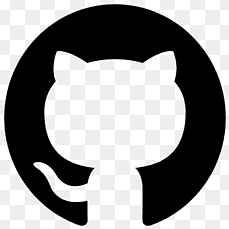
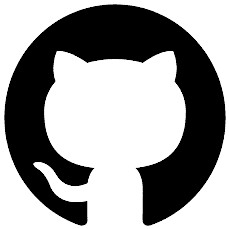
Added github pic at setup.

diff --git a/src/ts/setup/component.ts b/src/ts/setup/component.ts
@@ -1,5 +1,6 @@
 import { type ComponentContainer, type JsonValue } from 'golden-layout';
 import { ComponentBase } from '../golden-components/component-base';
+import image from '../../../img/github.png';
 
 const template = (function () {
   const template = document.createElement('template');
@@ -12,6 +13,13 @@ const template = (function () {
       height: 100%;
       background-color: grey !important;
     }
+
+    #github {
+      height: 25px;
+      width: 25px;
+      background-color: white;
+      border-radius: 50%;
+    }
     
     #footer {
       align-self: flex-end;
@@ -22,8 +30,10 @@ const template = (function () {
     <div id=info></div>
   </div>
   <div id=footer>
-    <a target=_blank href=https://github.com/rnascunha/console_web>GitHub</a>
     <small>Version: <b>${__COMMIT_HASH__}</b></small>
+    <a target=_blank href=https://github.com/rnascunha/console_web>
+      <img id=github src="${image as string}" alt=GitHub></img>
+    </a>
   </div>`;
   return template;
 })();
@@ -41,6 +51,8 @@ export class SetupComponent extends ComponentBase {
     this.rootHtmlElement.shadowRoot?.appendChild(
       template.content.cloneNode(true)
     );
+
+    console.log(image);
 
     this.title = 'Setup';
 

diff --git a/webpack.config.js b/webpack.config.js
@@ -64,7 +64,7 @@ module.exports = {
       },
       {
         // monaco-editor
-        test: /\.ttf$/,
+        test: /\.ttf$|\.png/,
         type: 'asset/resource',
       },
       {

diff --git a/src/global.d.ts b/src/global.d.ts
@@ -1,1 +1,2 @@
 declare module '*.css';
+declare module '*.png';
